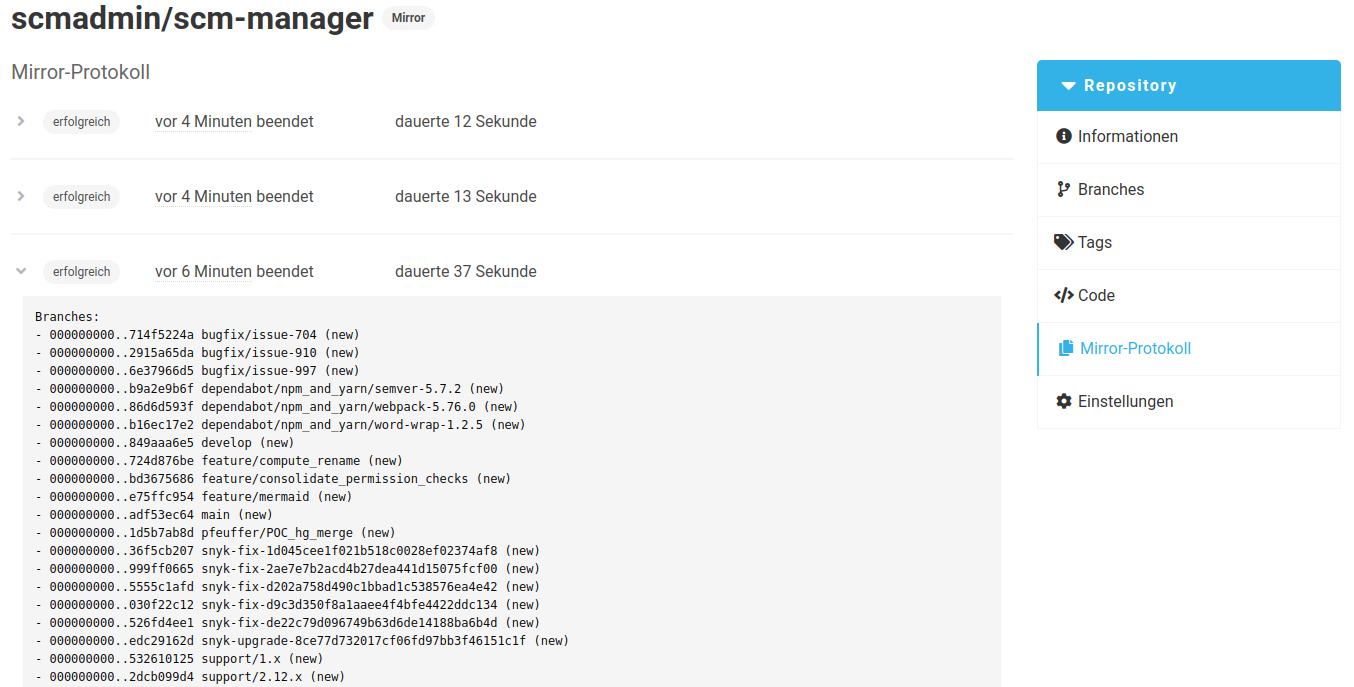
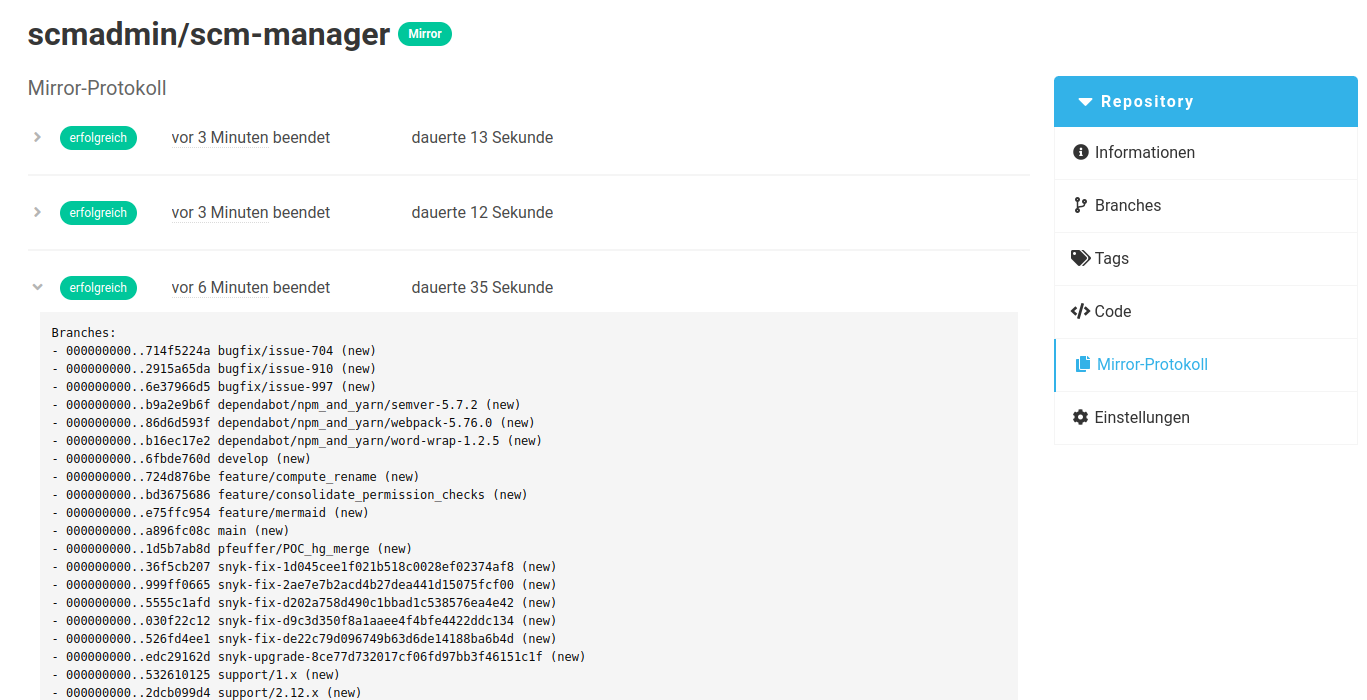
Fix mirror tag to show color respective to synchronisation status
Fix the mirror tag in the repository overview as well as the tags in the mirror log to correctly show the color respective to the synchronisation status

Pushed-by: Tarik Gürsoy<tarik.guersoy@cloudogu.com>
Pushed-by: Laura Gorzitze<laura.gorzitze@cloudogu.com>

diff --git a/src/main/js/MirrorRepositoryFlag.tsx b/src/main/js/MirrorRepositoryFlag.tsx
@@ -24,7 +24,7 @@
 
 import React, { FC } from "react";
 import { Repository } from "@scm-manager/ui-types";
-import { RepositoryFlag } from "@scm-manager/ui-components";
+import RepositoryFlag from "./RepositoryFlag";
 import { useTranslation } from "react-i18next";
 import { useHistory } from "react-router-dom";
 import { MirrorStatus } from "./types";
@@ -46,53 +46,31 @@ const MirrorRepositoryFlag: FC<Props> = ({ repository }) => {
   switch (mirrorStatus?.result) {
     case "SUCCESS":
       return (
-        <RepositoryFlag
-          tooltipLocation="right"
-          onClick={onClick}
-          color={"success"}
-          title={t("scm-repository-mirror-plugin.flag.success")}
-        >
+        <RepositoryFlag onClick={onClick} variant="success" title={t("scm-repository-mirror-plugin.flag.success")}>
           {t("scm-repository-mirror-plugin.flag.label")}
         </RepositoryFlag>
       );
     case "FAILED_UPDATES":
       return (
-        <RepositoryFlag
-          tooltipLocation="right"
-          color={"warning"}
-          title={t("scm-repository-mirror-plugin.flag.failedUpdates")}
-        >
+        <RepositoryFlag variant="warning" title={t("scm-repository-mirror-plugin.flag.failedUpdates")}>
           {t("scm-repository-mirror-plugin.flag.label")}
         </RepositoryFlag>
       );
     case "FAILED":
       return (
-        <RepositoryFlag
-          tooltipLocation="right"
-          onClick={onClick}
-          color={"danger"}
-          title={t("scm-repository-mirror-plugin.flag.failed")}
-        >
+        <RepositoryFlag onClick={onClick} variant="danger" title={t("scm-repository-mirror-plugin.flag.failed")}>
           {t("scm-repository-mirror-plugin.flag.label")}
         </RepositoryFlag>
       );
     case "NOT_YET_RUN":
       return (
-        <RepositoryFlag
-          tooltipLocation="right"
-          onClick={onClick}
-          title={t("scm-repository-mirror-plugin.flag.notYetRun")}
-        >
+        <RepositoryFlag onClick={onClick} title={t("scm-repository-mirror-plugin.flag.notYetRun")}>
           {t("scm-repository-mirror-plugin.flag.label")}
         </RepositoryFlag>
       );
     case "DISABLED":
       return (
-        <RepositoryFlag
-          tooltipLocation="right"
-          onClick={onClick}
-          title={t("scm-repository-mirror-plugin.flag.disabled")}
-        >
+        <RepositoryFlag onClick={onClick} title={t("scm-repository-mirror-plugin.flag.disabled")}>
           {t("scm-repository-mirror-plugin.flag.label")}
         </RepositoryFlag>
       );

diff --git a/src/main/js/Logs.tsx b/src/main/js/Logs.tsx
@@ -24,20 +24,13 @@
 
 import React, { FC, useState } from "react";
 import { Repository } from "@scm-manager/ui-types";
-import {
-  DateFromNow,
-  Duration,
-  ErrorNotification,
-  Icon,
-  Loading,
-  RepositoryFlag,
-  Subtitle
-} from "@scm-manager/ui-components";
+import { DateFromNow, Duration, ErrorNotification, Icon, Loading, Subtitle } from "@scm-manager/ui-components";
 import useMirrorLogs from "./useMirrorLogs";
 import { LogEntry } from "./types";
 import { Trans, useTranslation } from "react-i18next";
 import styled from "styled-components";
 import classNames from "classnames";
+import RepositoryFlag from "./RepositoryFlag";
 
 type Props = {
   repository: Repository;
@@ -46,7 +39,7 @@ type Props = {
 const SuccessTag = () => {
   const [t] = useTranslation("plugins");
   return (
-    <RepositoryFlag color={"success"} title={t("scm-repository-mirror-plugin.logs.success.title")}>
+    <RepositoryFlag variant="success" title={t("scm-repository-mirror-plugin.logs.success.title")}>
       {t("scm-repository-mirror-plugin.logs.success.label")}
     </RepositoryFlag>
   );
@@ -55,7 +48,7 @@ const SuccessTag = () => {
 const FailedTag = () => {
   const [t] = useTranslation("plugins");
   return (
-    <RepositoryFlag color={"danger"} title={t("scm-repository-mirror-plugin.logs.failed.title")}>
+    <RepositoryFlag variant="danger" title={t("scm-repository-mirror-plugin.logs.failed.title")}>
       {t("scm-repository-mirror-plugin.logs.failed.label")}
     </RepositoryFlag>
   );
@@ -64,7 +57,7 @@ const FailedTag = () => {
 const FailedUpdatesTag = () => {
   const [t] = useTranslation("plugins");
   return (
-    <RepositoryFlag color={"warning"} title={t("scm-repository-mirror-plugin.logs.failedUpdates.title")}>
+    <RepositoryFlag variant="warning" title={t("scm-repository-mirror-plugin.logs.failedUpdates.title")}>
       {t("scm-repository-mirror-plugin.logs.failedUpdates.label")}
     </RepositoryFlag>
   );

diff --git a/src/main/js/RepositoryFlag.tsx b/src/main/js/RepositoryFlag.tsx
@@ -1,0 +1,42 @@
+/*
+ * MIT License
+ *
+ * Copyright (c) 2020-present Cloudogu GmbH and Contributors
+ *
+ * Permission is hereby granted, free of charge, to any person obtaining a copy
+ * of this software and associated documentation files (the "Software"), to deal
+ * in the Software without restriction, including without limitation the rights
+ * to use, copy, modify, merge, publish, distribute, sublicense, and/or sell
+ * copies of the Software, and to permit persons to whom the Software is
+ * furnished to do so, subject to the following conditions:
+ *
+ * The above copyright notice and this permission notice shall be included in all
+ * copies or substantial portions of the Software.
+ *
+ * THE SOFTWARE IS PROVIDED "AS IS", WITHOUT WARRANTY OF ANY KIND, EXPRESS OR
+ * IMPLIED, INCLUDING BUT NOT LIMITED TO THE WARRANTIES OF MERCHANTABILITY,
+ * FITNESS FOR A PARTICULAR PURPOSE AND NONINFRINGEMENT. IN NO EVENT SHALL THE
+ * AUTHORS OR COPYRIGHT HOLDERS BE LIABLE FOR ANY CLAIM, DAMAGES OR OTHER
+ * LIABILITY, WHETHER IN AN ACTION OF CONTRACT, TORT OR OTHERWISE, ARISING FROM,
+ * OUT OF OR IN CONNECTION WITH THE SOFTWARE OR THE USE OR OTHER DEALINGS IN THE
+ * SOFTWARE.
+ */
+
+import React, { FC } from "react";
+import { Card, CardVariant, Tooltip } from "@scm-manager/ui-core";
+
+type Props = {
+  variant?: CardVariant;
+  title: string;
+  onClick?: () => void;
+};
+
+const RepositoryFlag: FC<Props> = ({ children, title, variant, ...props }) => (
+  <Tooltip message={title}>
+    <Card.Details.Detail.Tag {...props} cardVariant={variant} className="is-relative">
+      {children}
+    </Card.Details.Detail.Tag>
+  </Tooltip>
+);
+
+export default RepositoryFlag;
